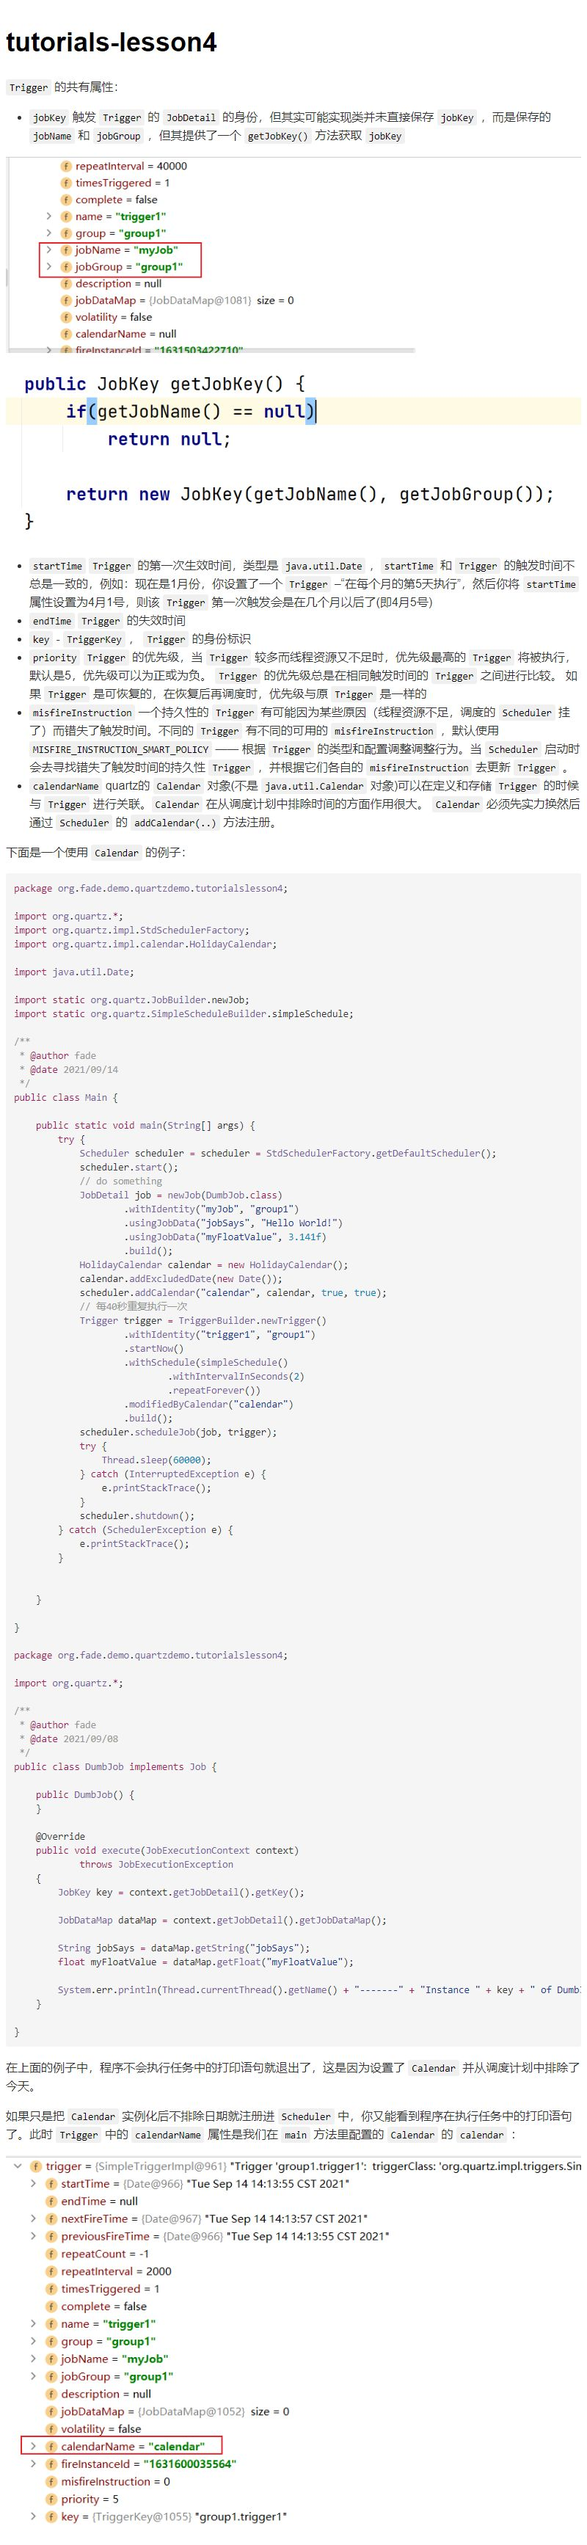
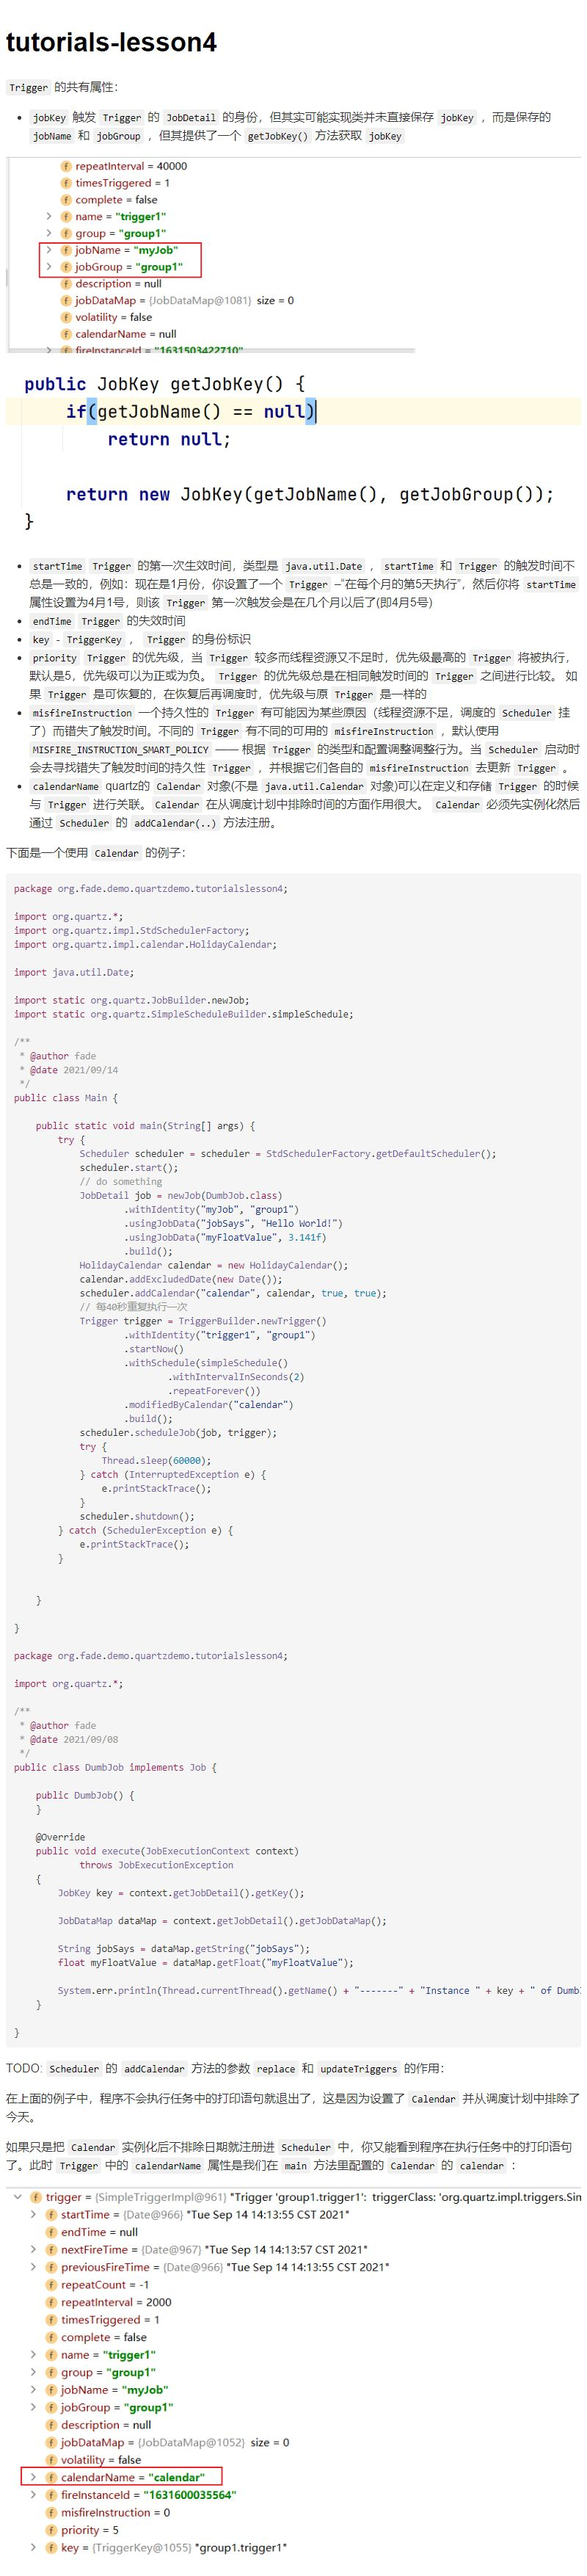
#commit 针对quartz官方示例的完善

diff --git a/doc/tutorials-lesson7.md b/doc/tutorials-lesson7.md
@@ -163,3 +163,206 @@ public class MyTriggerListener implements TriggerListener {
 
 ![Snipaste_2021-09-15_17-43-18.png](../img/Snipaste_2021-09-15_17-43-18.png)
 
+可以实现在监听器中监听事件从而使一个任务的执行引发另一个任务的执行，下面是quartz官方的一个使用示例：
+
+```java
+package org.quartz.examples.example9;
+
+import java.util.Date;
+
+import org.quartz.Job;
+import org.quartz.JobExecutionContext;
+import org.quartz.JobExecutionException;
+import org.quartz.JobKey;
+import org.slf4j.Logger;
+import org.slf4j.LoggerFactory;
+
+public class SimpleJob1 implements Job {
+
+    private static final Logger logger = LoggerFactory.getLogger(SimpleJob1.class);
+
+    public SimpleJob1() {
+    }
+
+    @Override
+    public void execute(JobExecutionContext context)
+        throws JobExecutionException {
+
+        // This job simply prints out its job name and the
+        // date and time that it is running
+        JobKey jobKey = context.getJobDetail().getKey();
+        logger.info("SimpleJob1 says: " + jobKey + " executing at " + new Date());
+    }
+
+}
+ 
+package org.quartz.examples.example9;
+
+import java.util.Date;
+
+import org.quartz.Job;
+import org.quartz.JobExecutionContext;
+import org.quartz.JobExecutionException;
+import org.quartz.JobKey;
+import org.slf4j.Logger;
+import org.slf4j.LoggerFactory;
+
+public class SimpleJob2 implements Job {
+
+    private static final Logger logger = LoggerFactory.getLogger(SimpleJob2.class);
+
+    public SimpleJob2() {
+    }
+
+    @Override
+    public void execute(JobExecutionContext context)
+        throws JobExecutionException {
+
+        // This job simply prints out its job name and the
+        // date and time that it is running
+        JobKey jobKey = context.getJobDetail().getKey();
+        logger.info("SimpleJob2 says: " + jobKey + " executing at " + new Date());
+    }
+
+}
+ 
+package org.quartz.examples.example9;
+
+import static org.quartz.JobBuilder.newJob;
+import static org.quartz.TriggerBuilder.newTrigger;
+
+import org.quartz.JobDetail;
+import org.quartz.JobExecutionContext;
+import org.quartz.JobExecutionException;
+import org.quartz.JobListener;
+import org.quartz.SchedulerException;
+import org.quartz.Trigger;
+import org.slf4j.Logger;
+import org.slf4j.LoggerFactory;
+
+/**
+ * @author wkratzer
+ */
+public class Job1Listener implements JobListener {
+
+  private static final Logger logger = LoggerFactory.getLogger(Job1Listener.class);
+
+  @Override
+  public String getName() {
+    return "job1_to_job2";
+  }
+
+  @Override
+  public void jobToBeExecuted(JobExecutionContext inContext) {
+    logger.info("Job1Listener says: Job Is about to be executed.");
+  }
+
+  @Override
+  public void jobExecutionVetoed(JobExecutionContext inContext) {
+    logger.info("Job1Listener says: Job Execution was vetoed.");
+  }
+
+  @Override
+  public void jobWasExecuted(JobExecutionContext inContext, JobExecutionException inException) {
+    logger.info("Job1Listener says: Job was executed.");
+
+    // Simple job #2
+    JobDetail job2 = newJob(SimpleJob2.class).withIdentity("job2").build();
+
+    Trigger trigger = newTrigger().withIdentity("job2Trigger").startNow().build();
+
+    try {
+      // schedule the job to run!
+      inContext.getScheduler().scheduleJob(job2, trigger);
+    } catch (SchedulerException e) {
+      logger.warn("Unable to schedule job2!");
+      e.printStackTrace();
+    }
+
+  }
+
+}
+ 
+package org.quartz.examples.example9;
+
+import static org.quartz.JobBuilder.newJob;
+import static org.quartz.TriggerBuilder.newTrigger;
+
+import org.quartz.JobDetail;
+import org.quartz.JobKey;
+import org.quartz.JobListener;
+import org.quartz.Matcher;
+import org.quartz.Scheduler;
+import org.quartz.SchedulerFactory;
+import org.quartz.SchedulerMetaData;
+import org.quartz.Trigger;
+import org.quartz.impl.StdSchedulerFactory;
+import org.quartz.impl.matchers.KeyMatcher;
+import org.slf4j.Logger;
+import org.slf4j.LoggerFactory;
+
+public class ListenerExample {
+
+  public void run() throws Exception {
+    Logger log = LoggerFactory.getLogger(ListenerExample.class);
+
+    log.info("------- Initializing ----------------------");
+
+    // First we must get a reference to a scheduler
+    SchedulerFactory sf = new StdSchedulerFactory();
+    Scheduler sched = sf.getScheduler();
+
+    log.info("------- Initialization Complete -----------");
+
+    log.info("------- Scheduling Jobs -------------------");
+
+    // schedule a job to run immediately
+
+    JobDetail job = newJob(SimpleJob1.class).withIdentity("job1").build();
+
+    Trigger trigger = newTrigger().withIdentity("trigger1").startNow().build();
+
+    // Set up the listener
+    JobListener listener = new Job1Listener();
+    Matcher<JobKey> matcher = KeyMatcher.keyEquals(job.getKey());
+    sched.getListenerManager().addJobListener(listener, matcher);
+
+    // schedule the job to run
+    sched.scheduleJob(job, trigger);
+
+    // All of the jobs have been added to the scheduler, but none of the jobs
+    // will run until the scheduler has been started
+    log.info("------- Starting Scheduler ----------------");
+    sched.start();
+
+    // wait 30 seconds:
+    // note: nothing will run
+    log.info("------- Waiting 30 seconds... --------------");
+    try {
+      // wait 30 seconds to show jobs
+      Thread.sleep(30L * 1000L);
+      // executing...
+    } catch (Exception e) {
+      //
+    }
+
+    // shut down the scheduler
+    log.info("------- Shutting Down ---------------------");
+    sched.shutdown(true);
+    log.info("------- Shutdown Complete -----------------");
+
+    SchedulerMetaData metaData = sched.getMetaData();
+    log.info("Executed " + metaData.getNumberOfJobsExecuted() + " jobs.");
+
+  }
+
+  public static void main(String[] args) throws Exception {
+
+    ListenerExample example = new ListenerExample();
+    example.run();
+  }
+
+}
+```
+
+

diff --git a/doc/tutorials-lesson3.md b/doc/tutorials-lesson3.md
@@ -406,3 +406,149 @@ public class Main {
 * `requestsRecovery()` 如果一个job是可恢复的，并且在其执行的时候，scheduler发生硬关闭（hard shutdown)（比如运行的进程崩溃了，或者关机了），则当scheduler重新启动的时候，该job会被重新执行。此时， `JobExecutionContext.isRecovering()` 返回true。 
 
 `Job` 类的 `execute()` 方法只允许抛出 `JobExecutionException` 和 `RuntimeExceptions`
+
+`Job` 在被执行时可以被 `Scheduler` 打断，通过 `sched.interrupt(job.getKey())` 方法实现，但是此时自定义 `Job` 类必须实现 `InterruptableJob` 接口，不然会产生异常。下面是一个使用示例：
+
+```java
+package org.quartz.examples.example7;
+
+import java.util.Date;
+
+import org.quartz.*;
+import org.slf4j.Logger;
+import org.slf4j.LoggerFactory;
+
+//public class DumbInterruptableJob implements Job {
+public class DumbInterruptableJob implements InterruptableJob {
+    
+    // logging services
+    private static final Logger logger = LoggerFactory.getLogger(DumbInterruptableJob.class);
+    
+    // has the job been interrupted?
+    private boolean interrupted = false;
+
+    // job name 
+    private JobKey jobKey = null;
+    
+    public DumbInterruptableJob() {
+    }
+
+    @Override
+    public void execute(JobExecutionContext context)
+        throws JobExecutionException {
+
+        jobKey = context.getJobDetail().getKey();
+        logger.info("---- " + jobKey + " executing at " + new Date());
+
+        try {
+            // main job loop... see the JavaDOC for InterruptableJob for discussion...
+            // do some work... in this example we are 'simulating' work by sleeping... :)
+
+            for (int i = 0; i < 4; i++) {
+                try {
+                    Thread.sleep(1000L);
+                } catch (Exception ignore) {
+                    ignore.printStackTrace();
+                }
+                
+                // periodically check if we've been interrupted...
+                if(interrupted) {
+                    logger.info("--- " + jobKey + "  -- Interrupted... bailing out!");
+                    return; // could also choose to throw a JobExecutionException 
+                             // if that made for sense based on the particular  
+                             // job's responsibilities/behaviors
+                }
+            }
+            
+        } finally {
+            logger.info("---- " + jobKey + " completed at " + new Date());
+        }
+    }
+    
+    @Override
+    public void interrupt() throws UnableToInterruptJobException {
+        logger.info("---" + jobKey + "  -- INTERRUPTING --");
+        interrupted = true;
+    }
+
+}
+ 
+package org.quartz.examples.example7;
+
+import static org.quartz.DateBuilder.nextGivenSecondDate;
+import static org.quartz.JobBuilder.newJob;
+import static org.quartz.SimpleScheduleBuilder.simpleSchedule;
+import static org.quartz.TriggerBuilder.newTrigger;
+
+import org.quartz.JobDetail;
+import org.quartz.Scheduler;
+import org.quartz.SchedulerFactory;
+import org.quartz.SchedulerMetaData;
+import org.quartz.SimpleTrigger;
+import org.quartz.impl.StdSchedulerFactory;
+import org.slf4j.Logger;
+import org.slf4j.LoggerFactory;
+
+import java.util.Date;
+
+public class InterruptExample {
+
+  public void run() throws Exception {
+    final Logger log = LoggerFactory.getLogger(InterruptExample.class);
+
+    log.info("------- Initializing ----------------------");
+
+    // First we must get a reference to a scheduler
+    SchedulerFactory sf = new StdSchedulerFactory();
+    Scheduler sched = sf.getScheduler();
+
+    log.info("------- Initialization Complete -----------");
+
+    log.info("------- Scheduling Jobs -------------------");
+
+    // get a "nice round" time a few seconds in the future...
+    Date startTime = nextGivenSecondDate(null, 15);
+
+    JobDetail job = newJob(DumbInterruptableJob.class).withIdentity("interruptableJob1", "group1").build();
+
+    SimpleTrigger trigger = newTrigger().withIdentity("trigger1", "group1").startAt(startTime)
+        .withSchedule(simpleSchedule().withIntervalInSeconds(5).repeatForever()).build();
+
+    Date ft = sched.scheduleJob(job, trigger);
+    log.info(job.getKey() + " will run at: " + ft + " and repeat: " + trigger.getRepeatCount() + " times, every "
+             + trigger.getRepeatInterval() / 1000 + " seconds");
+
+    // start up the scheduler (jobs do not start to fire until
+    // the scheduler has been started)
+    sched.start();
+    log.info("------- Started Scheduler -----------------");
+
+    log.info("------- Starting loop to interrupt job every 7 seconds ----------");
+    for (int i = 0; i < 50; i++) {
+      try {
+        Thread.sleep(7000L);
+        // tell the scheduler to interrupt our job
+        sched.interrupt(job.getKey());
+      } catch (Exception e) {
+        //
+      }
+    }
+
+    log.info("------- Shutting Down ---------------------");
+
+    sched.shutdown(true);
+
+    log.info("------- Shutdown Complete -----------------");
+    SchedulerMetaData metaData = sched.getMetaData();
+    log.info("Executed " + metaData.getNumberOfJobsExecuted() + " jobs.");
+
+  }
+
+  public static void main(String[] args) throws Exception {
+
+    InterruptExample example = new InterruptExample();
+    example.run();
+  }
+
+}
+```

diff --git a/doc/tutorials-lesson4.md b/doc/tutorials-lesson4.md
@@ -13,7 +13,7 @@
 * `key` - `TriggerKey` ， `Trigger` 的身份标识
 * `priority` `Trigger` 的优先级，当 `Trigger` 较多而线程资源又不足时，优先级最高的 `Trigger` 将被执行，默认是5，优先级可以为正或为负。 `Trigger` 的优先级总是在相同触发时间的 `Trigger` 之间进行比较。 如果 `Trigger` 是可恢复的，在恢复后再调度时，优先级与原 `Trigger` 是一样的
 * `misfireInstruction` 一个持久性的 `Trigger` 有可能因为某些原因（线程资源不足，调度的 `Scheduler` 挂了）而错失了触发时间。不同的 `Trigger` 有不同的可用的 `misfireInstruction` ，默认使用 `MISFIRE_INSTRUCTION_SMART_POLICY` —— 根据 `Trigger` 的类型和配置调整调整行为。当 `Scheduler` 启动时会去寻找错失了触发时间的持久性 `Trigger` ，并根据它们各自的 `misfireInstruction` 去更新 `Trigger` 。
-* `calendarName` quartz的 `Calendar` 对象(不是 `java.util.Calendar` 对象)可以在定义和存储 `Trigger` 的时候与 `Trigger` 进行关联。`Calendar` 在从调度计划中排除时间的方面作用很大。 `Calendar` 必须先实力换然后通过 `Scheduler` 的 `addCalendar(..)` 方法注册。
+* `calendarName` quartz的 `Calendar` 对象(不是 `java.util.Calendar` 对象)可以在定义和存储 `Trigger` 的时候与 `Trigger` 进行关联。`Calendar` 在从调度计划中排除时间的方面作用很大。 `Calendar` 必须先实例化然后通过 `Scheduler` 的 `addCalendar(..)` 方法注册。
   
 下面是一个使用 `Calendar` 的例子：
 
@@ -102,6 +102,8 @@ public class DumbJob implements Job {
 
 }
 ```
+
+TODO: `Scheduler` 的 `addCalendar` 方法的参数 `replace` 和 `updateTriggers` 的作用：
 
 在上面的例子中，程序不会执行任务中的打印语句就退出了，这是因为设置了 `Calendar` 并从调度计划中排除了今天。
 
